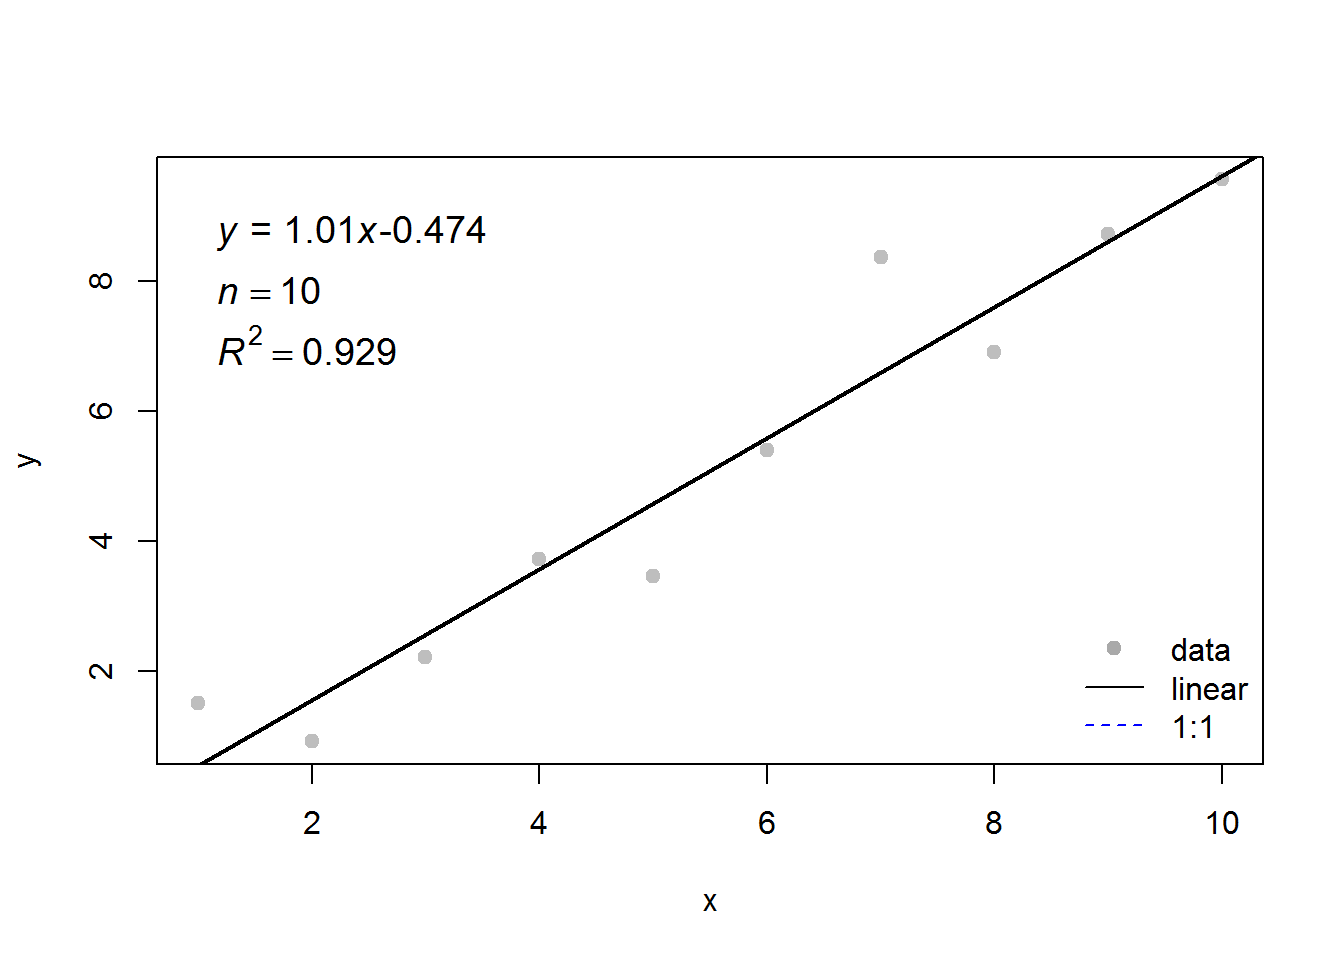
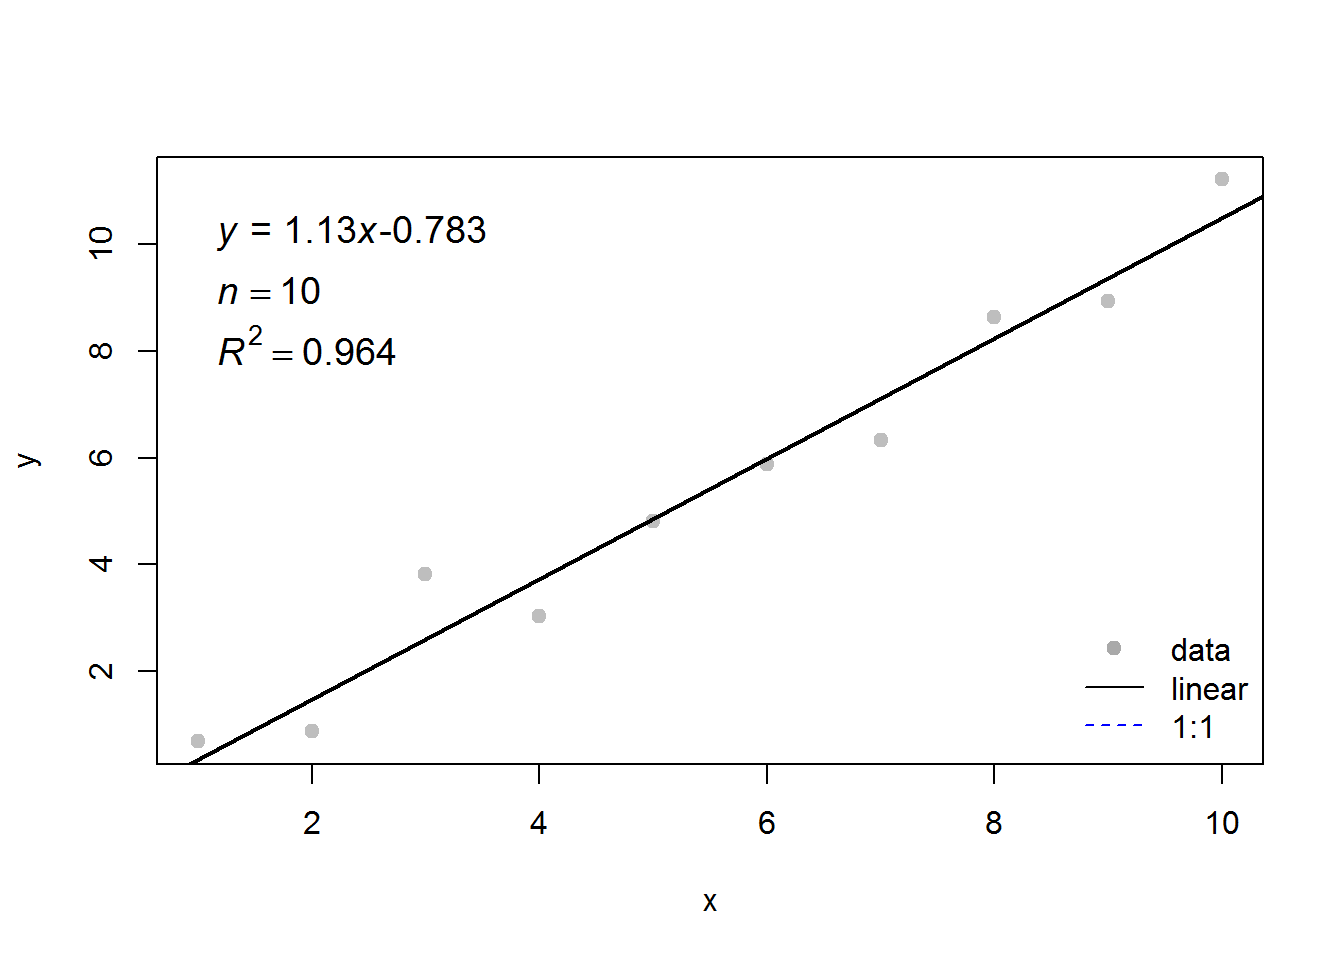
update auto

diff --git a/content/post/2017-06-23-beginr_released.html b/content/post/2017-06-23-beginr_released.html
@@ -54,12 +54,12 @@ y &lt;- 1:10 + rnorm(10)
 beginr::plotlm(x, y)</code></pre>
 <p><img src="/post/2017-06-23-beginr_released_files/figure-html/unnamed-chunk-2-1.png" width="672" /></p>
 <pre><code>## [[1]]
-##               Estimate Std. Error    t value     Pr(&gt;|t|)
-## (Intercept) -0.4742055 0.61183569 -0.7750537 4.606008e-01
-## x            1.0100707 0.09860625 10.2434758 7.090752e-06
+##               Estimate Std. Error   t value     Pr(&gt;|t|)
+## (Intercept) -0.7825652  0.4775329 -1.638767 1.398945e-01
+## x            1.1279046  0.0769614 14.655458 4.613488e-07
 ## 
 ## [[2]]
-## [1] 0.9291589</code></pre>
+## [1] 0.9640905</code></pre>
 <p>经常需要了解一组数据的分布, 看看是不是正态分布. beginr 里的 <code>plothist()</code> 函数不仅做出直方图和平滑曲线, 并且标出中值, 中位数, 四分位数, 标准偏差, 样本数, 以及用来判断是否正态分布的 skewness 值.</p>
 <pre class="r"><code>x &lt;- rnorm(10000)
 beginr::plothist(x)</code></pre>
@@ -94,19 +94,19 @@ beginr::errorbar(x, y, yupper = 0.1, ylower = 0.1)</code></pre>
 <pre class="r"><code>df &lt;- data.frame(a = 1:10, b = 1:10 + rnorm(10), c = 1:10 + rnorm(10))
 beginr::lmdf(df)</code></pre>
 <pre><code>##   x y r.squared adj.r.squared  intercept     slope Std.Error.intercept
-## 1 a b 0.9474967     0.9409337 -0.6229616 1.1210496           0.5789151
-## 2 a c 0.9352020     0.9271022  0.6868312 0.8644272           0.4991626
-## 3 b a 0.9474967     0.9409337  0.8152875 0.8451871           0.4540469
-## 4 b c 0.8712119     0.8551134  1.4257539 0.7244387           0.6356540
-## 5 c a 0.9352020     0.9271022 -0.3866761 1.0818747           0.6057650
-## 6 c b 0.8712119     0.8551134 -1.0007675 1.2026027           0.9835512
+## 1 a b 0.9388288     0.9311825 -1.3529827 1.1558692           0.6472532
+## 2 a c 0.8748567     0.8592138 -0.1557088 0.9401884           0.7800737
+## 3 b a 0.9388288     0.9311825  1.4353711 0.8122275           0.4445689
+## 4 b c 0.7743230     0.7461134  1.3048036 0.7414673           0.8583330
+## 5 c a 0.8748567     0.8592138  0.8331772 0.9305121           0.7200546
+## 6 c b 0.7743230     0.7461134 -0.2332670 1.0443118           1.1535083
 ##   Std.Error.slope t.intercept   t.slope Pr.intercept     Pr.slope
-## 1      0.09330061  -1.0760847 12.015459   0.31326762 2.122935e-06
-## 2      0.08044734   1.3759668 10.745255   0.20611898 4.950907e-06
-## 3      0.07034164   1.7956018 12.015459   0.11029179 2.122935e-06
-## 4      0.09847648   2.2429714  7.356464   0.05516907 7.944370e-05
-## 5      0.10068395  -0.6383269 10.745255   0.54109881 4.950907e-06
-## 6      0.16347565  -1.0175042  7.356464   0.33869497 7.944370e-05</code></pre>
+## 1       0.1043143  -2.0903453 11.080641   0.06998049 3.926069e-06
+## 2       0.1257203  -0.1996078  7.478416   0.84676756 7.070948e-05
+## 3       0.0733015   3.2286807 11.080641   0.01208086 3.926069e-06
+## 4       0.1415238   1.5201602  5.239170   0.16695926 7.840820e-04
+## 5       0.1244264   1.1571028  7.478416   0.28060970 7.070948e-05
+## 6       0.1993277  -0.2022239  5.239170   0.84478961 7.840820e-04</code></pre>
 <p>还有两个函数对<code>tapply()</code>进行了改善, 用来进行因子计算.</p>
 <pre class="r"><code>beginr::tapplydf()
 beginr::tapplydfv()</code></pre>

diff --git a/content/post/2017-06-23-beginr_released.en.html b/content/post/2017-06-23-beginr_released.en.html
@@ -57,12 +57,12 @@ y &lt;- 1:10 + rnorm(10)
 beginr::plotlm(x, y)</code></pre>
 <p><img src="/post/2017-06-23-beginr_released.en_files/figure-html/unnamed-chunk-3-1.png" width="672" /></p>
 <pre><code>## [[1]]
-##               Estimate Std. Error    t value     Pr(&gt;|t|)
-## (Intercept) -0.4741784 0.59418152 -0.7980363 4.478884e-01
-## x            1.1613544 0.09576102 12.1276319 1.977721e-06
+##              Estimate Std. Error   t value     Pr(&gt;|t|)
+## (Intercept) -1.698558 0.59942380 -2.833651 2.202610e-02
+## x            1.239634 0.09660589 12.831868 1.284385e-06
 ## 
 ## [[2]]
-## [1] 0.9484135</code></pre>
+## [1] 0.9536653</code></pre>
 <p>If you want to display the distribution of a data-set, use <code>plothist()</code>, which gives you a histogram with markers of the median, mean, quantiles, standard deviation, sample number and the skewness.</p>
 <pre class="r"><code>x &lt;- rnorm(10000)
 beginr::plothist(x)</code></pre>
@@ -97,19 +97,19 @@ beginr::errorbar(x, y, yupper = 0.1, ylower = 0.1)</code></pre>
 <pre class="r"><code>df &lt;- data.frame(a = 1:10, b = 1:10 + rnorm(10), c = 1:10 + rnorm(10))
 beginr::lmdf(df)</code></pre>
 <pre><code>##   x y r.squared adj.r.squared  intercept     slope Std.Error.intercept
-## 1 a b 0.8841399     0.8696574  1.1522508 0.7442434           0.5910264
-## 2 a c 0.9315258     0.9229666 -0.2202341 1.0964183           0.6521201
-## 3 b a 0.8841399     0.8696574 -0.7316103 1.1879714           0.8692400
-## 4 b c 0.8094841     0.7856696 -0.9635837 1.2913039           1.2662434
-## 5 c a 0.9315258     0.9229666  0.5637206 0.8496081           0.5426854
-## 6 c b 0.8094841     0.7856696  1.6034135 0.6268734           0.7164814
+## 1 a b 0.8482926     0.8293292 -0.4437680 0.9271001           0.8600872
+## 2 a c 0.9420385     0.9347933 -0.6878945 1.0788458           0.5870571
+## 3 b a 0.8482926     0.8293292  1.2404364 0.9149958           0.7497008
+## 4 b c 0.7820078     0.7547588  0.6998262 0.9765103           0.9989188
+## 5 c a 0.9420385     0.9347933  0.9194518 0.8731910           0.4702557
+## 6 c b 0.7820078     0.7547588  0.4543813 0.8008188           0.9179908
 ##   Std.Error.slope t.intercept   t.slope Pr.intercept     Pr.slope
-## 1      0.09525253   1.9495758  7.813372   0.08704921 5.173510e-05
-## 2      0.10509868  -0.3377202 10.432275   0.74426501 6.183314e-06
-## 3      0.15204337  -0.8416666  7.813372   0.42441804 5.173510e-05
-## 4      0.22148534  -0.7609783  5.830200   0.46850453 3.914752e-04
-## 5      0.08144034   1.0387614 10.432275   0.32928964 6.183314e-06
-## 6      0.10752176   2.2378997  5.830200   0.05560738 3.914752e-04</code></pre>
+## 1      0.13861560  -0.5159570  6.688281   0.61983790 1.545636e-04
+## 2      0.09461283  -1.1717675 11.402743   0.27500314 3.160411e-06
+## 3      0.13680582   1.6545753  6.688281   0.13660701 1.545636e-04
+## 4      0.18228326   0.7005837  5.357104   0.50342565 6.800301e-04
+## 5      0.07657728   1.9552168 11.402743   0.08629372 3.160411e-06
+## 6      0.14948727   0.4949737  5.357104   0.63392534 6.800301e-04</code></pre>
 <p>There are two functions as improvements of <code>tapply()</code> for factor calculation.</p>
 <pre class="r"><code>beginr::tapplydf()
 beginr::tapplydfv()</code></pre>

diff --git a/content/post/2018-09-25-geometric-mean.html b/content/post/2018-09-25-geometric-mean.html
@@ -30,10 +30,10 @@ categories: []
 <h3>请听题：</h3>
 <p>假定：</p>
 <ul>
-<li>第 1 组数据是 <span class="math inline">\((x_i, x_2, ... x_n)\)</span>, 其几何平均值是 <span class="math inline">\(G_x\)</span>，几何标准差是 <span class="math inline">\(\sigma_x\)</span>。</li>
-<li>第 2 组数据是 <span class="math inline">\((y_i, y_2, ... y_n)\)</span>, 其几何平均值是 <span class="math inline">\(G_y\)</span>，几何标准差是 <span class="math inline">\(\sigma_y\)</span>。</li>
+<li>第 1 组数据是 <span class="math inline">\((x_1, x_2, ... x_n)\)</span>, 其几何平均值是 <span class="math inline">\(G_x\)</span>，几何标准差是 <span class="math inline">\(\sigma_x\)</span>。</li>
+<li>第 2 组数据是 <span class="math inline">\((y_1, y_2, ... y_n)\)</span>, 其几何平均值是 <span class="math inline">\(G_y\)</span>，几何标准差是 <span class="math inline">\(\sigma_y\)</span>。</li>
 </ul>
-<p>那么，这两组数据的合集 <span class="math inline">\((x_i, x_2, ... x_n, y_i, y_2, ... y_n)\)</span> 的几何平均值 <span class="math inline">\(G_{x,y}\)</span> 和几何标准差<span class="math inline">\(\sigma_{x,y}\)</span>如何计算？</p>
+<p>那么，这两组数据的合集 <span class="math inline">\((x_1, x_2, ... x_n, y_1, y_2, ... y_n)\)</span> 的几何平均值 <span class="math inline">\(G_{x,y}\)</span> 和几何标准差<span class="math inline">\(\sigma_{x,y}\)</span>如何计算？</p>
 <p>这是一道初中代数题。下面是推导:</p>
 </div>
 <div id="-g_xy" class="section level3">
